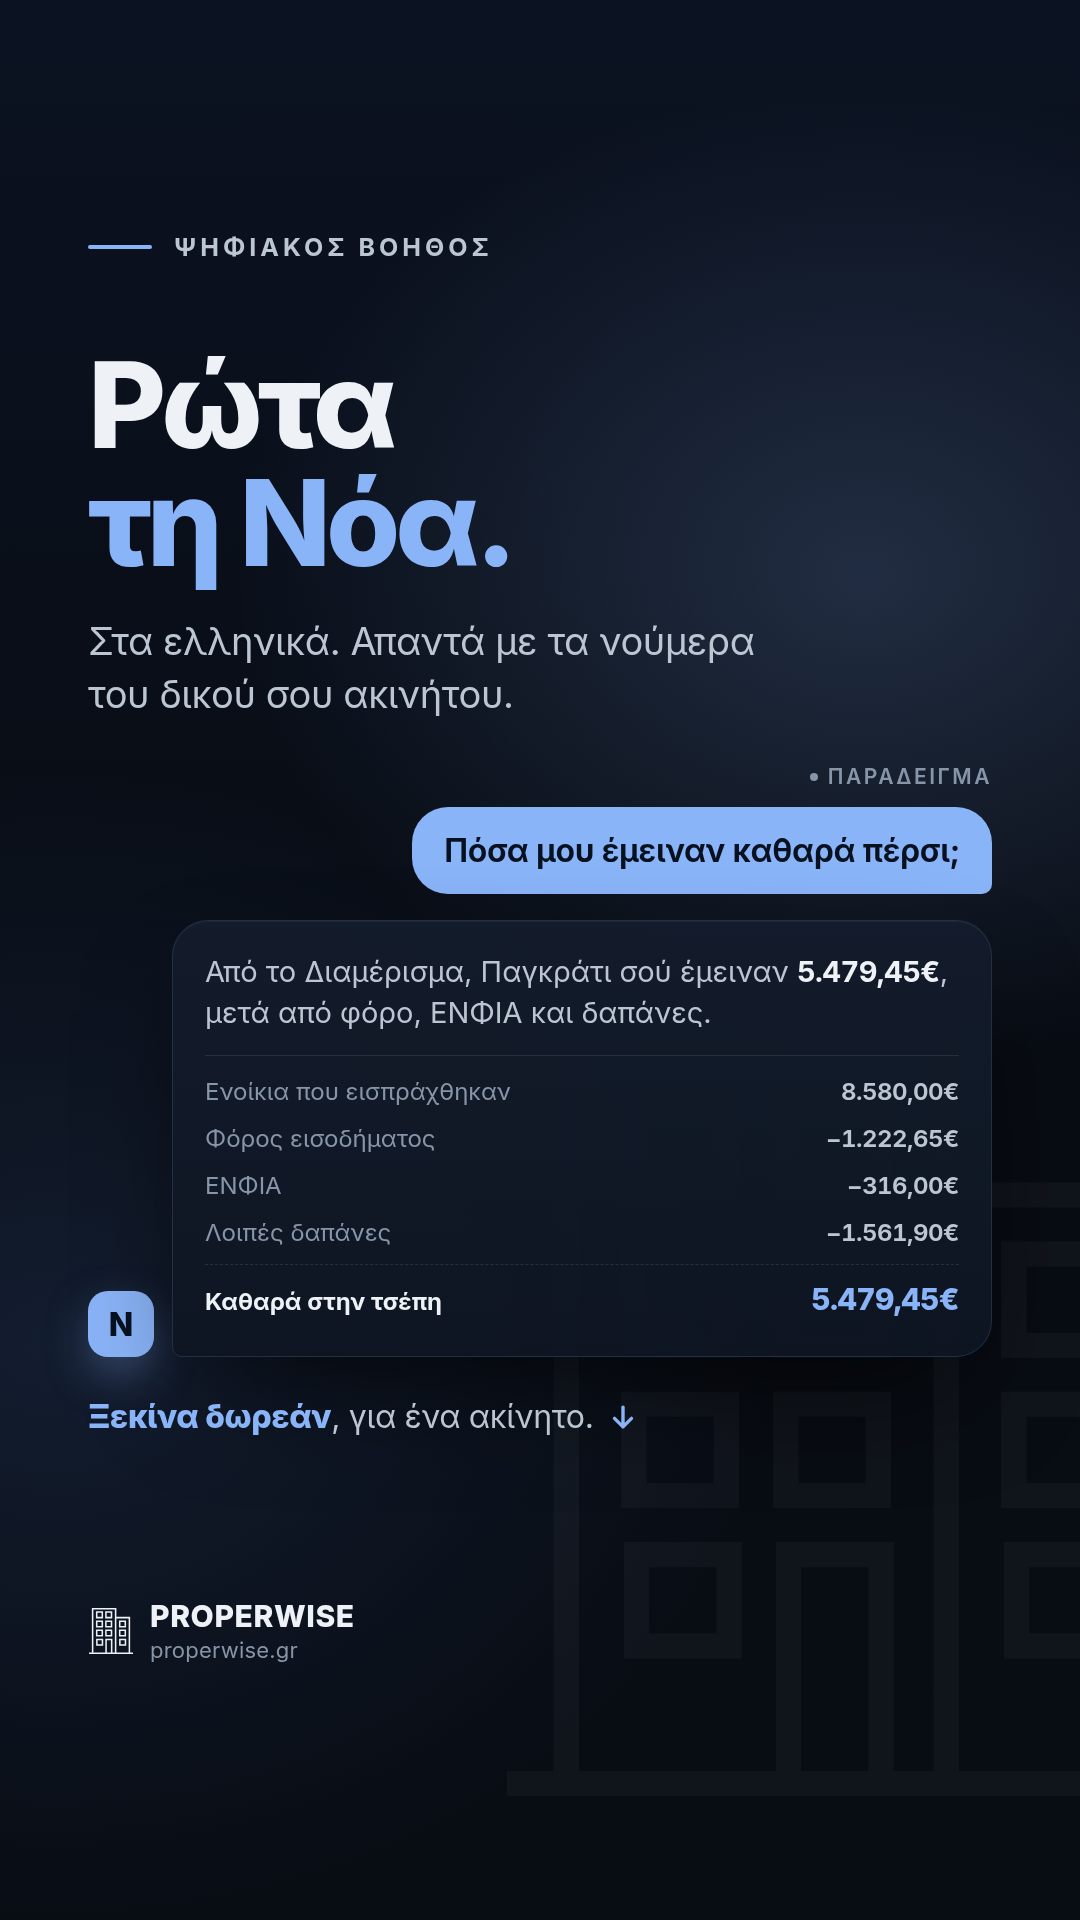
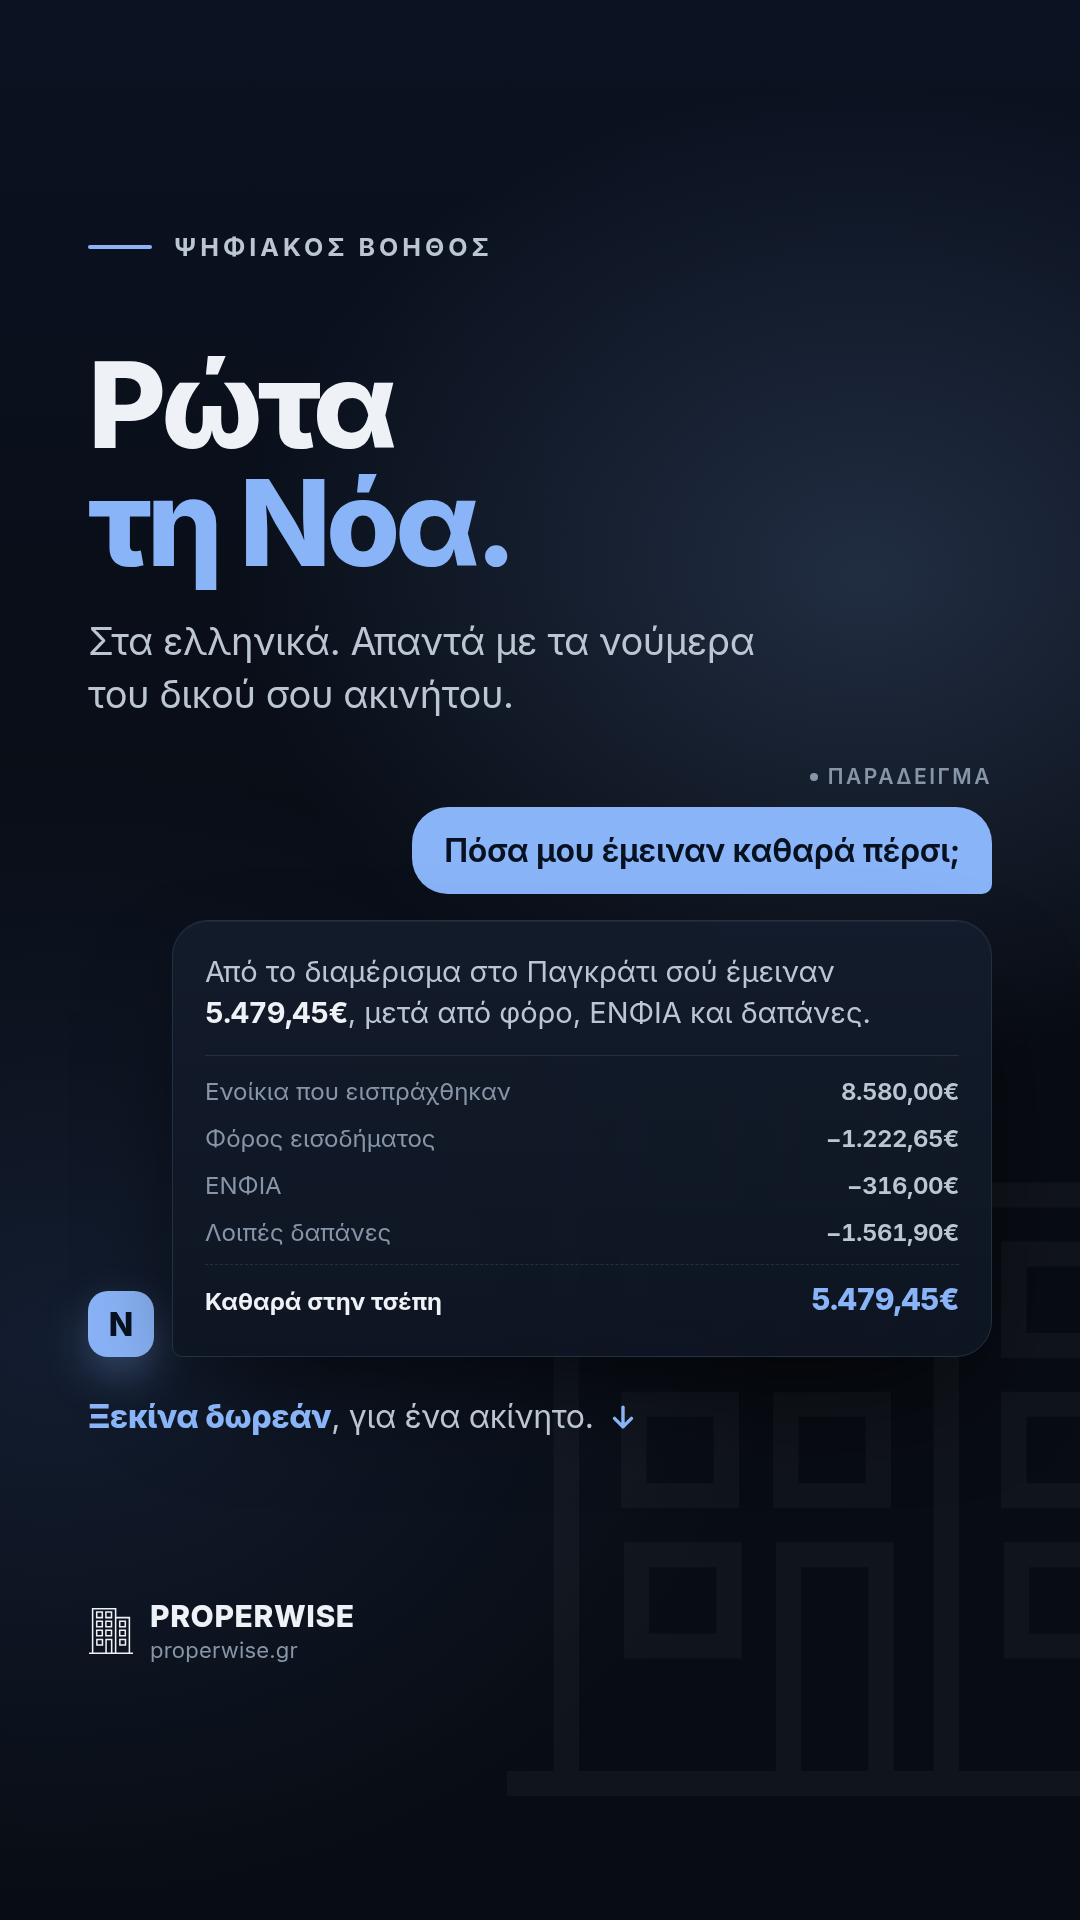
Instagram, 3ο story: «από το διαμέρισμα στο Παγκράτι», λόγος αντί για ετικέτα
Claude-Session: https://claude.ai/code/session_01FciDzM5oCHC6crgCfFdPE1

Changed region(s): [[0.1833, 0.5, 0.8861, 0.5312]]

diff --git a/scripts/marketing/stories.ts b/scripts/marketing/stories.ts
@@ -62,6 +62,11 @@ const esc = (s: string) => s.replace(/&/g, '&amp;').replace(/</g, '&lt;').replac
 const today = athensToday();
 const S = demoSummary(today);
 const PROP = DEMO_PROPERTY.name;
+// Στην ετικέτα κάρτας το όνομα μένει όπως το γράφει η εφαρμογή («Διαμέρισμα,
+// Παγκράτι»). Μέσα σε πρόταση διαβάζεται σαν πεδίο φόρμας· εκεί γίνεται λόγος:
+// «το διαμέρισμα στο Παγκράτι».
+const [propKind, propArea] = PROP.split(/,\s*/);
+const PROP_SPOKEN = propArea ? `${propKind.toLocaleLowerCase('el')} στο ${propArea}` : PROP;
 const WATER = demoExpenses(S.year).find(e => e.category === 'water')!;
 const WATER_ACC = expenseAccount('water');
 const line = (key: string) => S.statement.lines.find(l => l.key === key);
@@ -235,7 +240,7 @@ function noa(): string {
       <div class="reply">
         <div class="av">${ASSISTANT_INITIAL}</div>
         <div class="bubble glass">
-          <p>Από το ${esc(PROP)} σού έμειναν <b class="num" style="color:${C.ink}">${esc(fe(NET))}</b>, μετά από φόρο, ΕΝΦΙΑ και δαπάνες.</p>
+          <p>Από το ${esc(PROP_SPOKEN)} σού έμειναν <b class="num" style="color:${C.ink}">${esc(fe(NET))}</b>, μετά από φόρο, ΕΝΦΙΑ και δαπάνες.</p>
           <div class="ledger">
             ${led('Ενοίκια που εισπράχθηκαν', fe(S.collected))}
             ${led('Φόρος εισοδήματος', minus(TAX))}
